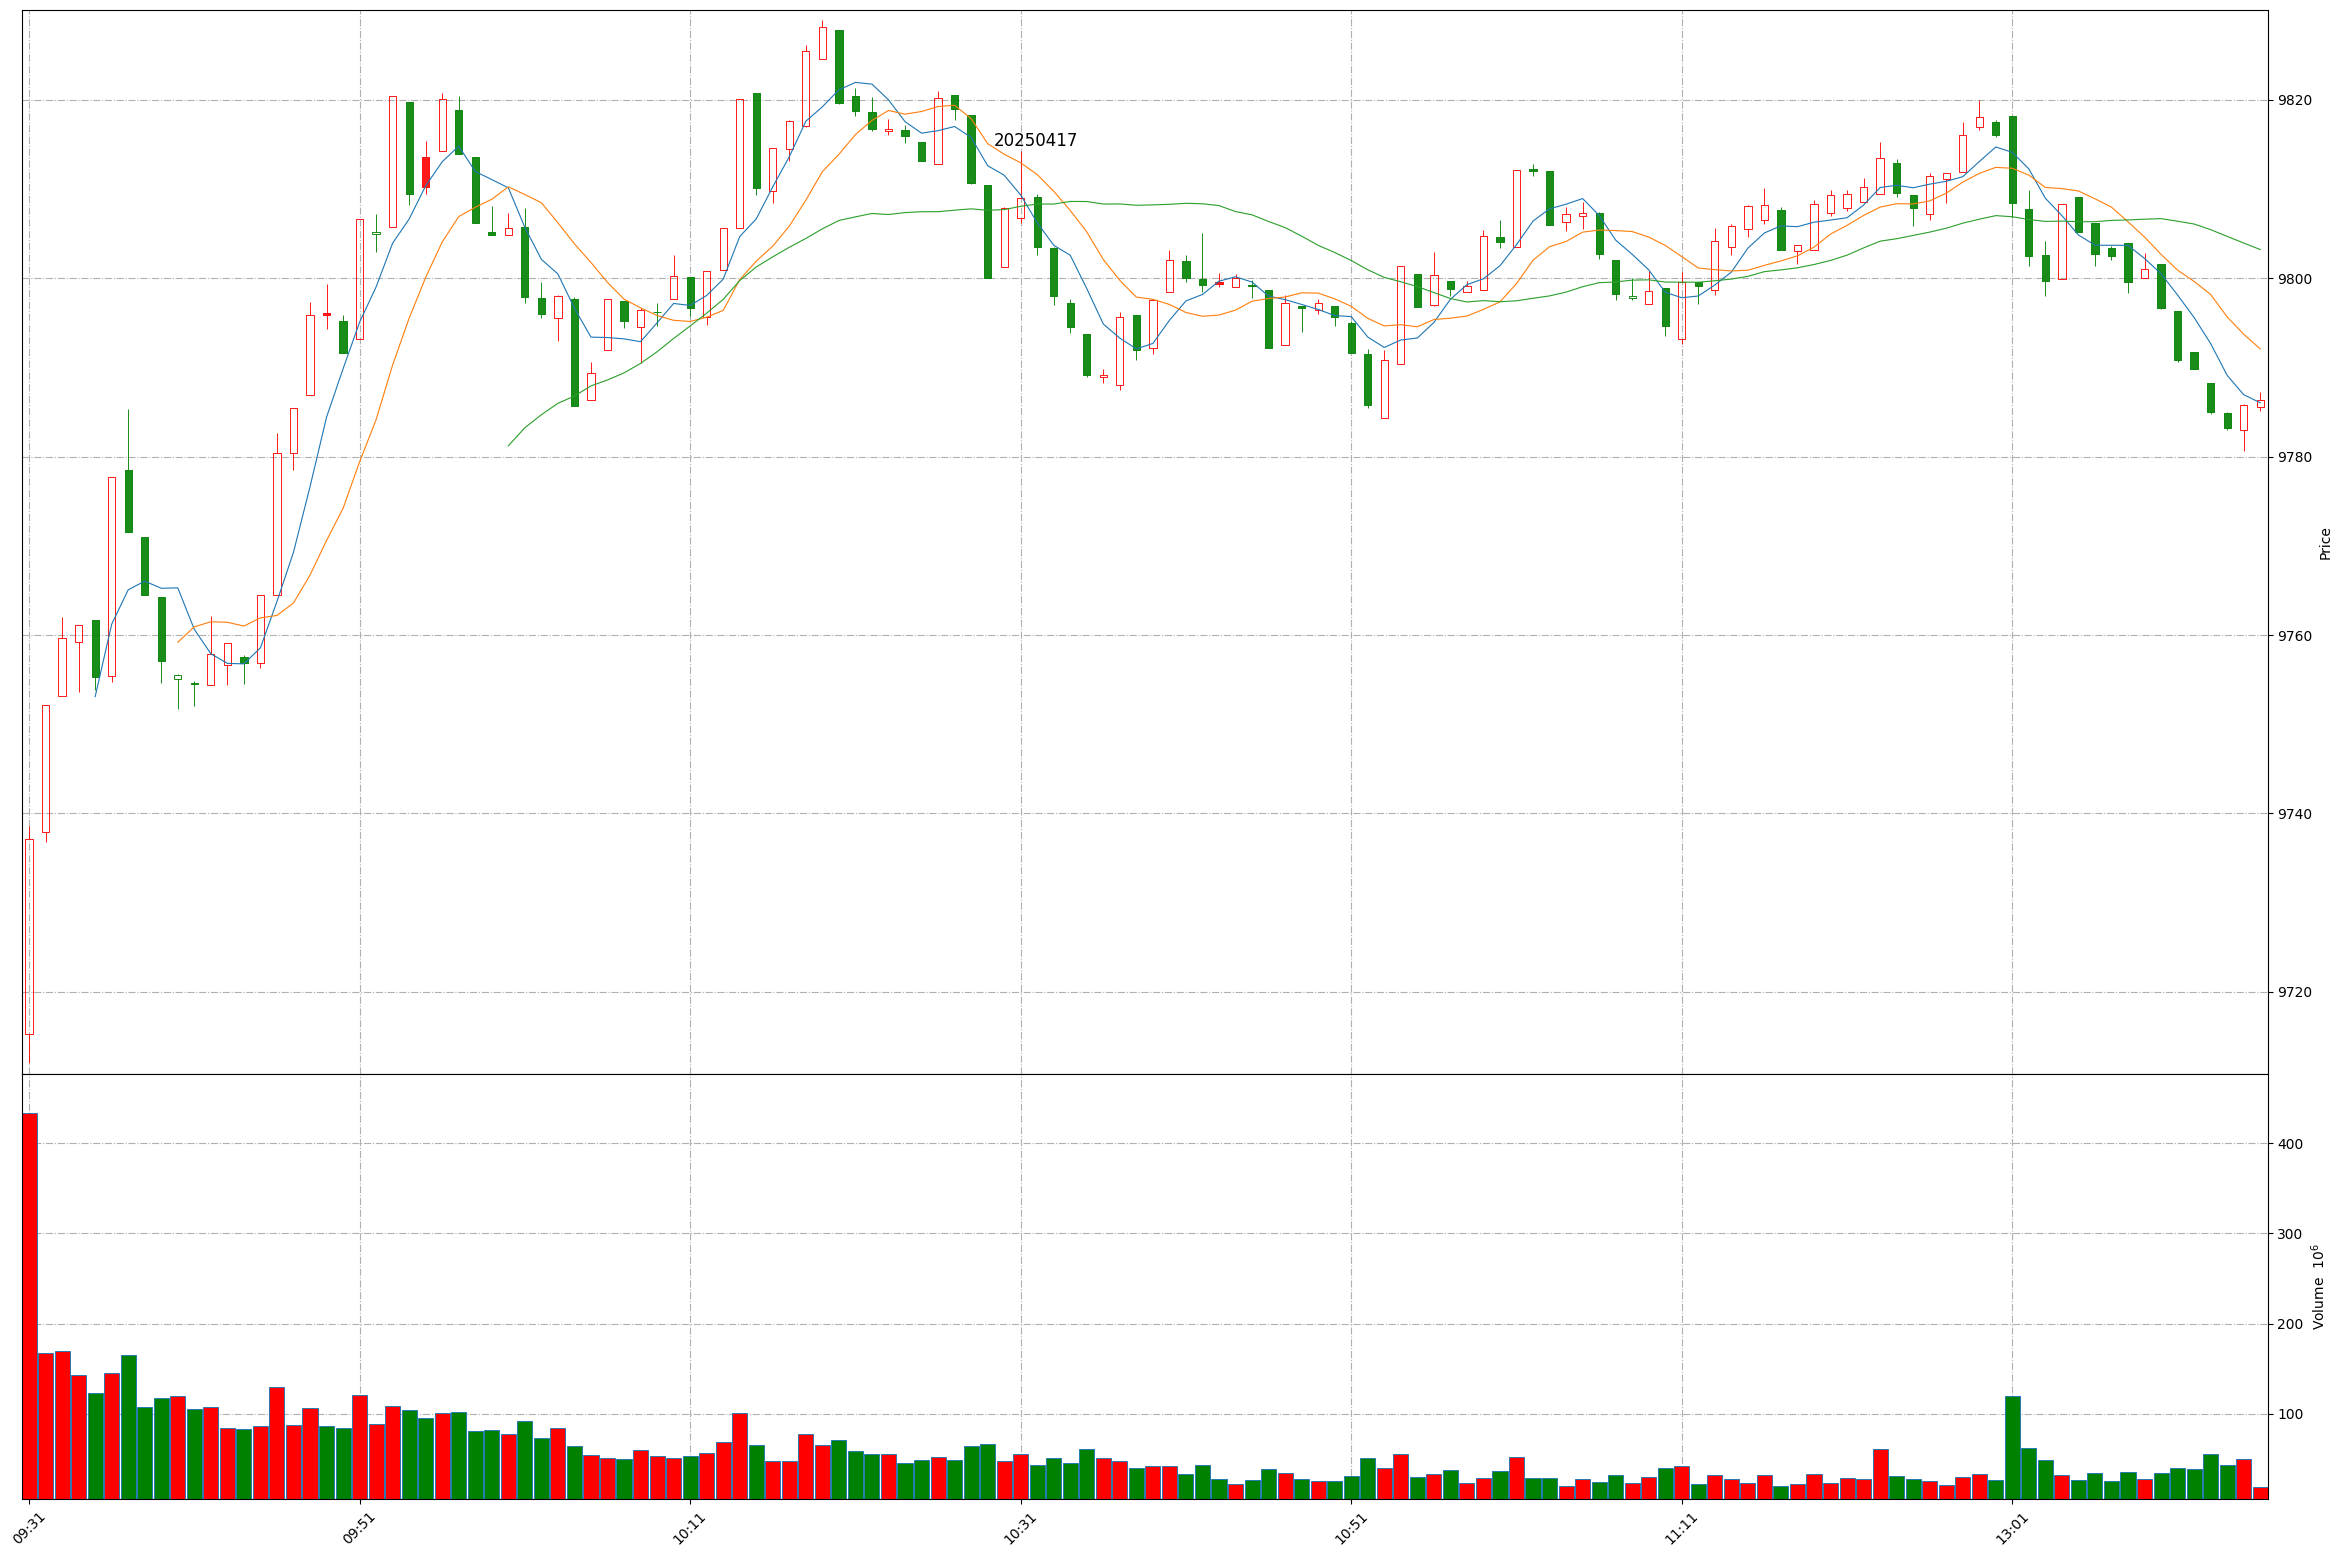
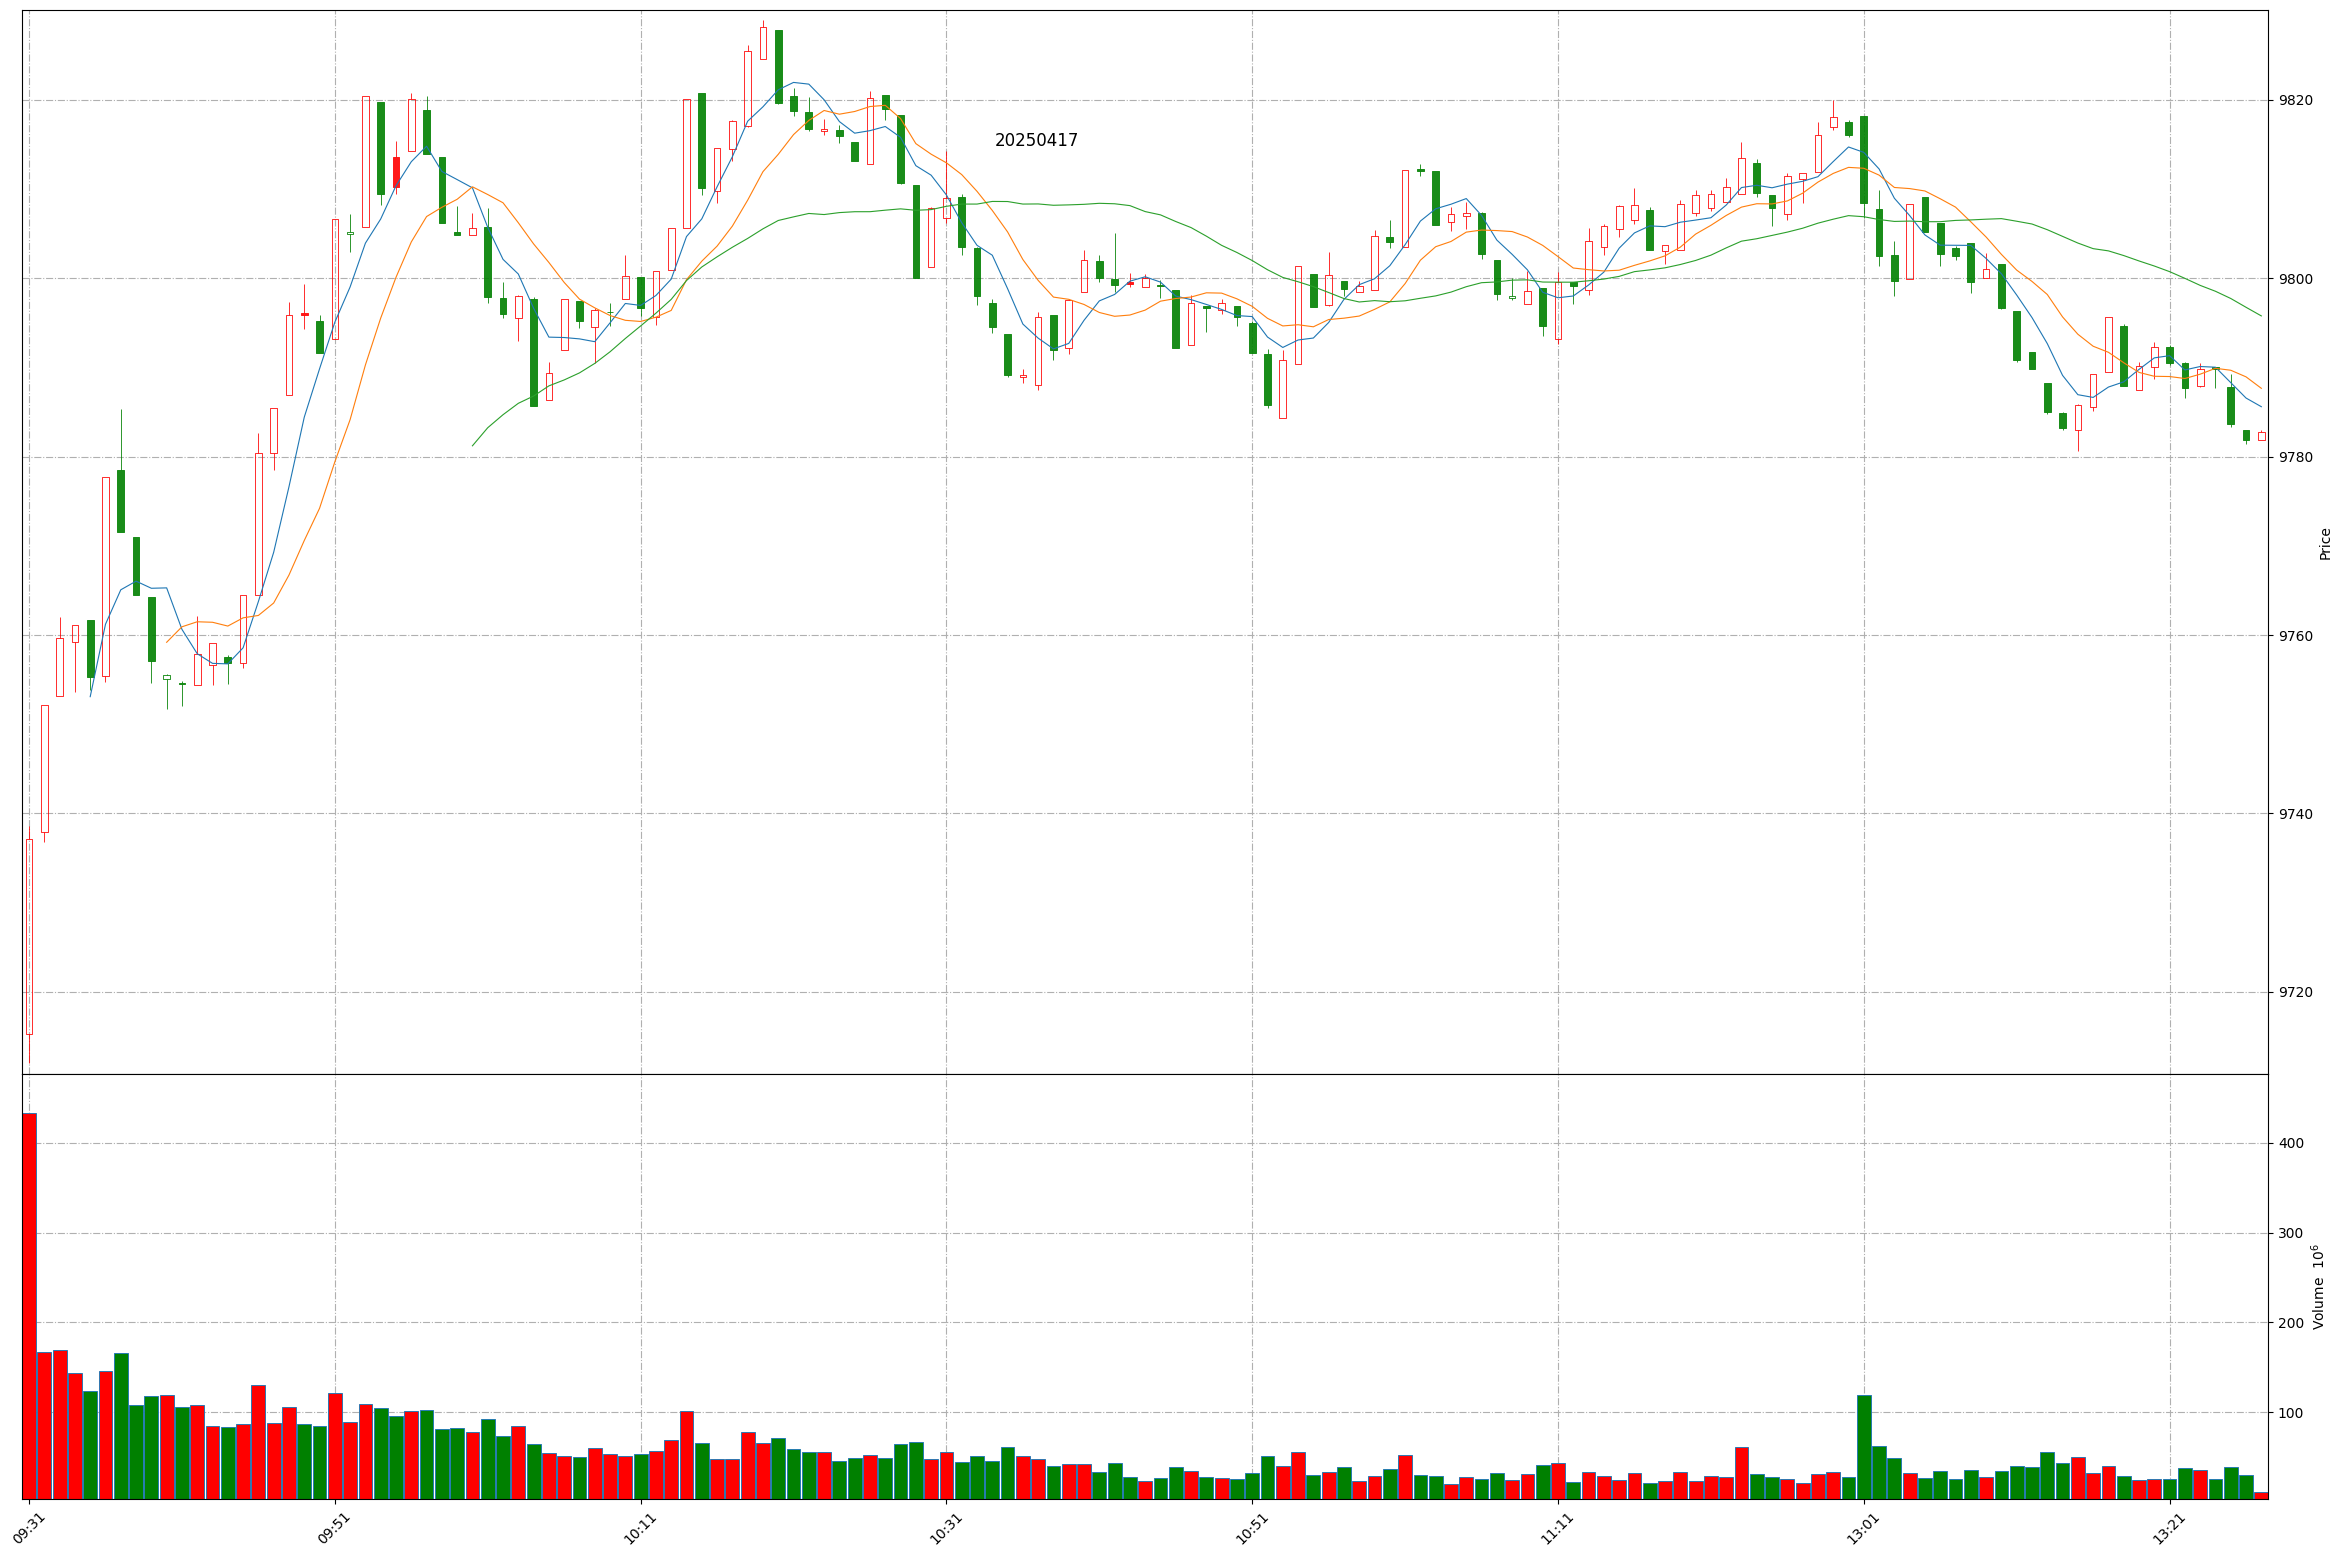
Github action update at 2025-04-17 13:26:40.

diff --git a/README.md b/README.md
@@ -1,11 +1,11 @@
 
 # Daily-A-share-market-quotes 每日 A 股指数（5min 更新）- 20250417
 
-### 上证指数 20250417 13:15
+### 上证指数 20250417 13:26
 ![](./fig/2025/4/20250417-sh000001.png)
 
-### 深证成指 20250417 13:15
+### 深证成指 20250417 13:26
 ![](./fig/2025/4/20250417-sz399001.png)
 
-### 北证50 20250417 13:15
+### 北证50 20250417 13:26
 ![](./fig/2025/4/20250417-bj899050.png)
